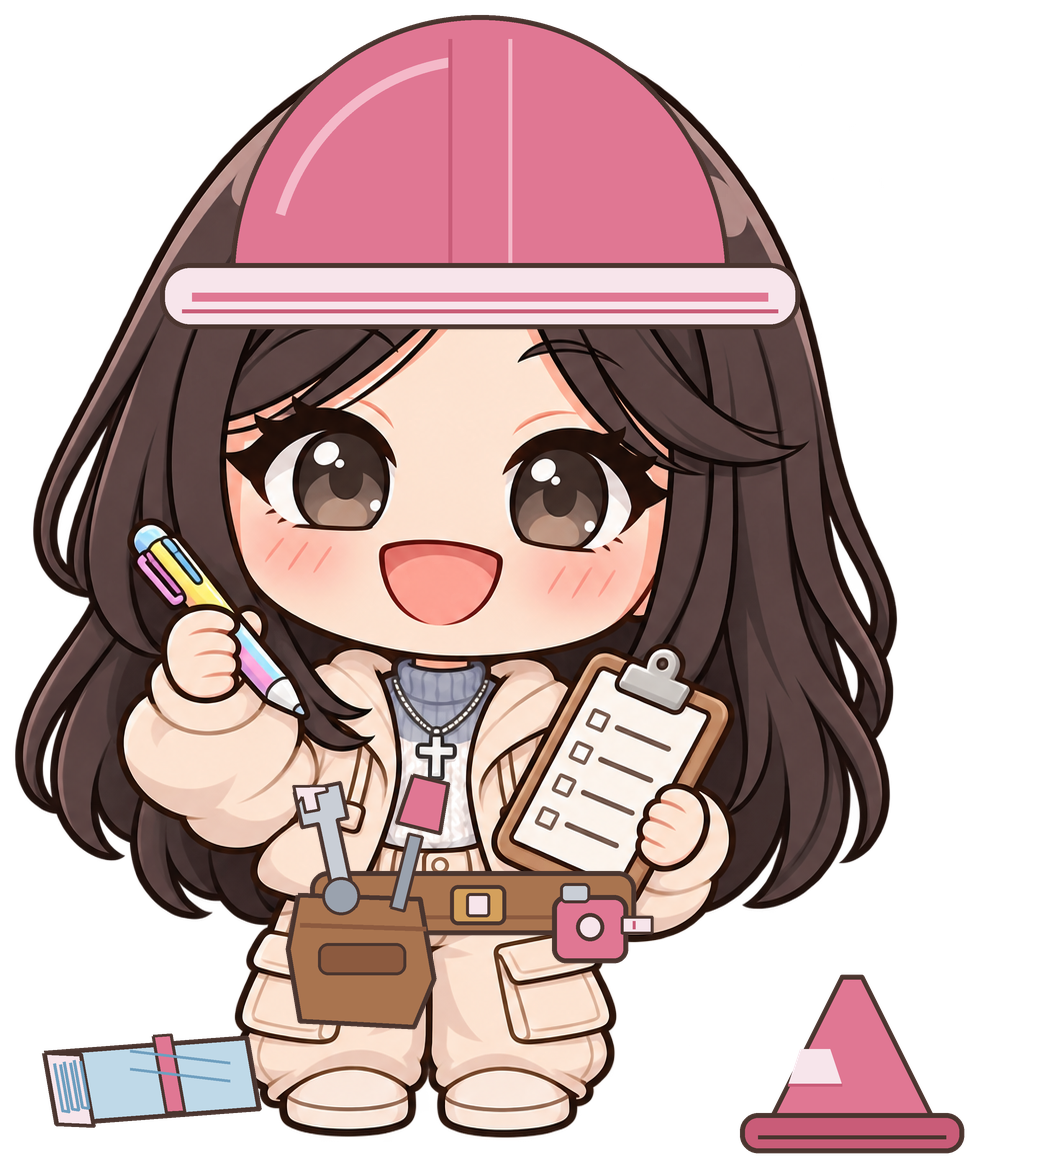
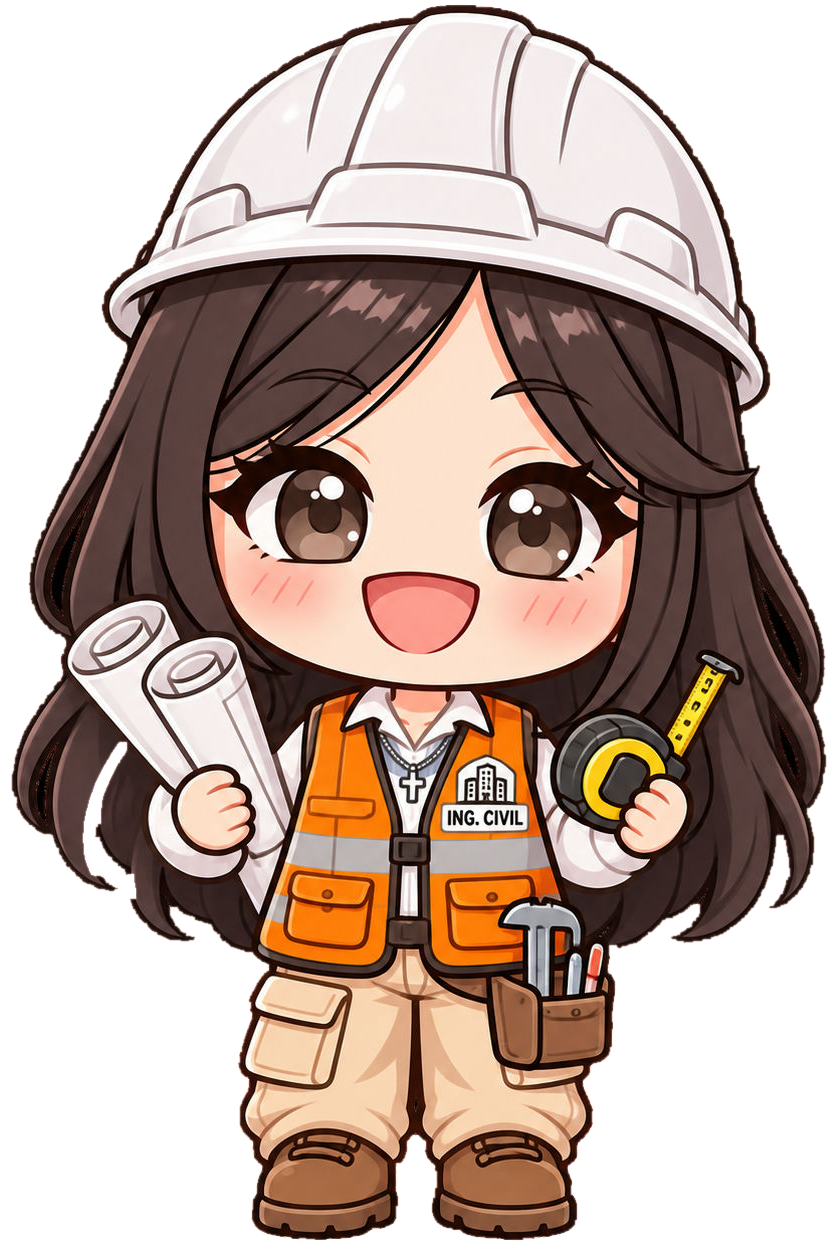
feat(catalog): nueva Jashy constructora en webp transparente

diff --git a/lib/screens/catalog_screen.dart b/lib/screens/catalog_screen.dart
@@ -721,9 +721,9 @@ class _ConstructionModuleState extends StatelessWidget {
         : 'Estamos preparando las coronas más hermosas y exclusivas para tus reinas, quinceañeras y eventos especiales. ¡Muy pronto disponibles para cotizar!';
     final media = MediaQuery.sizeOf(context);
     final compact = media.width < 700;
-    final availableHeight = media.height - (compact ? 300 : 320);
-    final imageHeight = (availableHeight * (compact ? 0.42 : 0.46))
-        .clamp(compact ? 150.0 : 180.0, compact ? 240.0 : 320.0);
+    final availableHeight = media.height - (compact ? 290 : 310);
+    final imageHeight = (availableHeight * (compact ? 0.50 : 0.55))
+        .clamp(compact ? 160.0 : 200.0, compact ? 280.0 : 360.0);
     final haloSize = imageHeight * 0.92;
 
     return Center(
